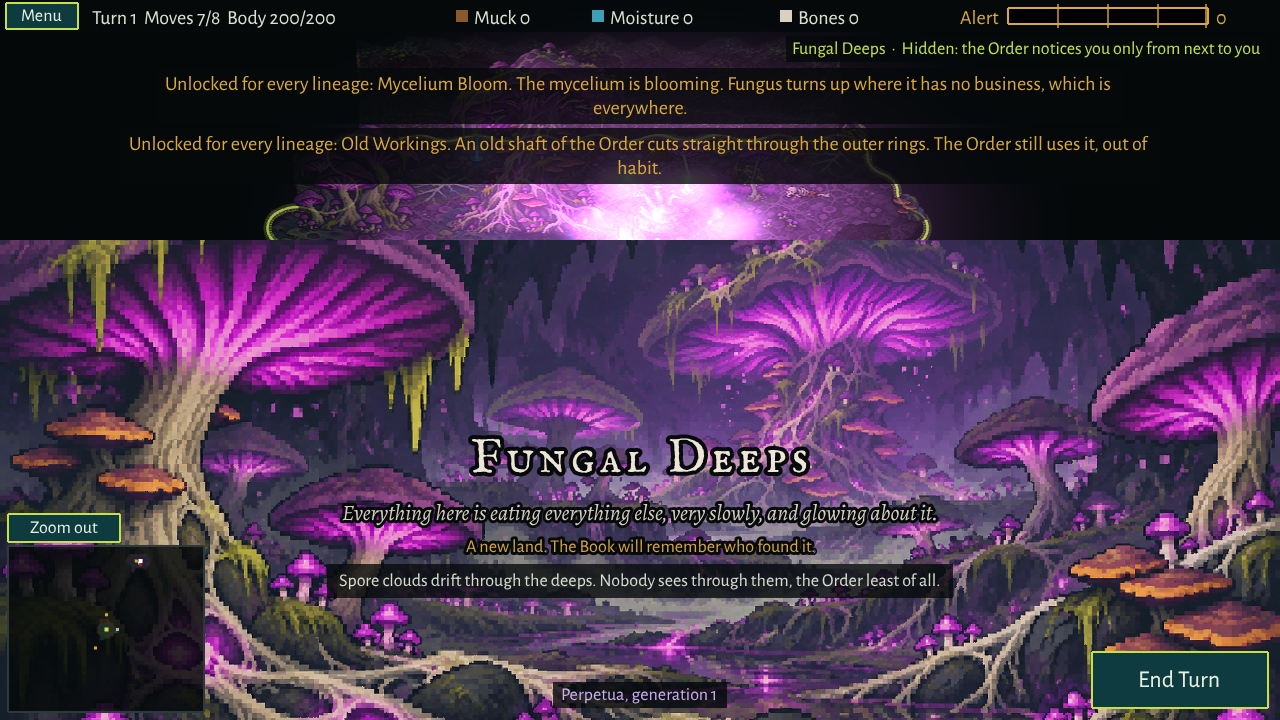
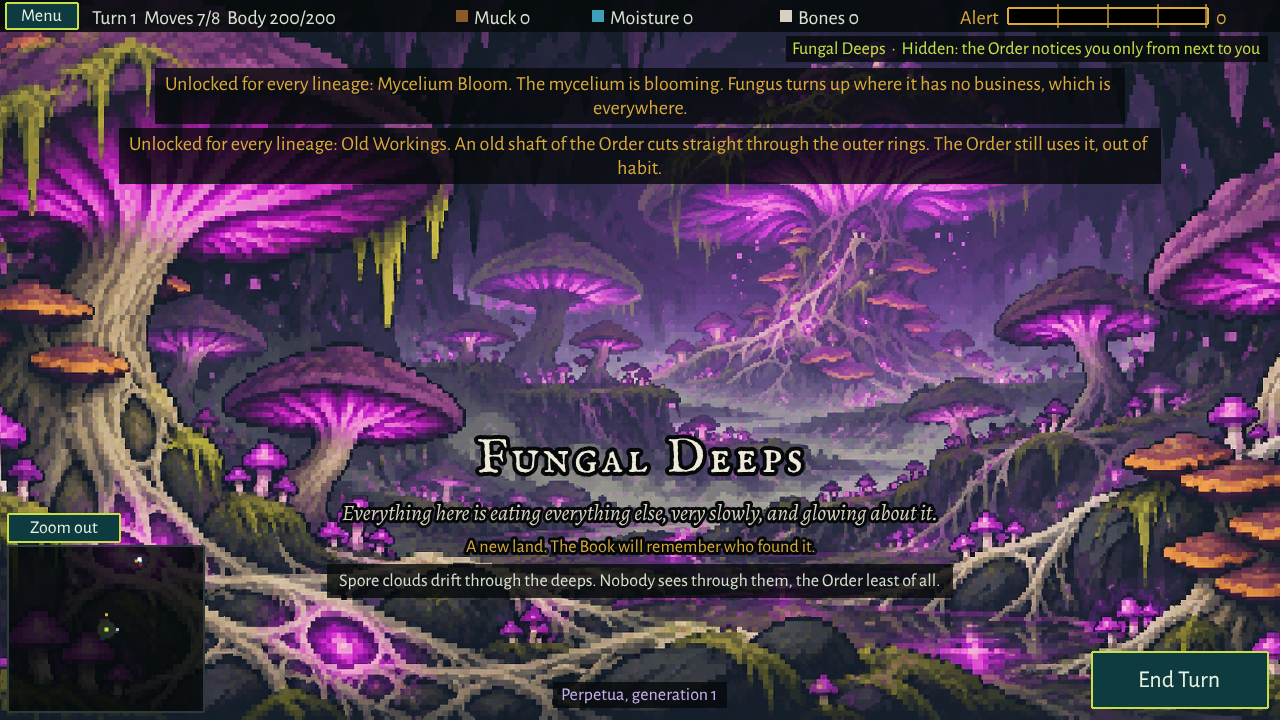
Map: smaller props without copies, a darker violet Fungal Deeps, full-screen vistas, fewer early lands
- Props from a biome's sheet draw at 70% and never twice on one hex; rareProps
  in biomes.json (a helmet, a cart, a coffin) never lead a clump and come at
  most once in one.
- Fungal Deeps: violet glow instead of pink, chamber light at 55%, tighter and
  stronger light on the glowing mushrooms, paler spore puffs (scenery.propGlow
  and scenery.chamberLight, new optional data).
- The discovery vista fills the whole screen (640x360 import box).
- Ring 1 keeps 1-2 foreign chambers instead of 4-6, so the first lands come
  one at a time.

Claude-Session: https://claude.ai/code/session_01YAxGtVC6TZfSpD8XVKcdPa

diff --git a/src/scenes/MapScene.ts b/src/scenes/MapScene.ts
@@ -193,6 +193,8 @@ const PLACE_GLOWS: Readonly<Record<string, { tint: string; scale: number; alpha:
 
 /** Decorations come in clumps around an anchor hex (a ring of mushrooms, a heap of bones), not sprinkled evenly. */
 const CLUMP = { pieces: [3, 7] as const, perChamberHexes: 9, loneChance: 0.12, favouriteShare: 0.7 };
+/** Props from a biome's sheet are drawn this much smaller than the sheet's own size, so they sit inside their hex. */
+const PROP_SCALE = 0.7;
 /**
  * One small decoration: an older one by its kind (map_deco_<kind>), or a frame of the biome's props sheet
  * (map_props_<biome>) once it has one.
@@ -233,7 +235,7 @@ const MIST = { size: 2.1, tint: '#e4ece6', alpha: [0.3, 0.68] as const, drift: 3
  * per hex, of the biome's glow greyed (`grey` of the way to `greyTint`), each a little bigger or smaller (`sizes`, times
  * a hex's width) and off the hex's middle by up to `spread` px, drifting sideways.
  */
-const SPORES = { puffs: 2, sizes: [1.3, 2] as const, spread: 6, grey: 0.6, greyTint: '#b8b0bc', alpha: 0.42, drift: 5, driftMs: 3600 } as const;
+const SPORES = { puffs: 2, sizes: [1.3, 2] as const, spread: 6, grey: 0.6, greyTint: '#a89cb0', alpha: 0.34, drift: 5, driftMs: 3600 } as const;
 /** Hidden in the roots or under a spore cloud (GAME_DESIGN.md §9.2), the hydra shows this faded. */
 const HIDDEN_ALPHA = 0.6;
 
@@ -260,6 +262,8 @@ interface ChamberGlow {
   hexes: string[];
   color: number;
   radius: number;
+  /** How strong its light is: BIOME_LIGHT.strength, scaled by the biome's scenery.chamberLight. */
+  strength: number;
   teaser: Phaser.GameObjects.Image | null;
 }
 
@@ -534,7 +538,19 @@ export class MapScene extends Phaser.Scene {
       const biome = map.tiles.get(hexKey(hexes[0]!))?.biome ?? '';
       const glow = biomes.biomes[biome]?.colors.glow;
       if (!glow) return [];
-      return [{ x, y, center, biome, hexes: hexes.map(hexKey), color: color(glow), radius: Math.max(BIOME_LIGHT.minRadius, hexes.length * BIOME_LIGHT.radiusPerHex), teaser: null }];
+      return [
+        {
+          x,
+          y,
+          center,
+          biome,
+          hexes: hexes.map(hexKey),
+          color: color(glow),
+          radius: Math.max(BIOME_LIGHT.minRadius, hexes.length * BIOME_LIGHT.radiusPerHex),
+          strength: BIOME_LIGHT.strength * this.sceneryOf(biome).chamberLight,
+          teaser: null,
+        },
+      ];
     });
   }
 
@@ -605,7 +621,11 @@ export class MapScene extends Phaser.Scene {
       const biome = map.tiles.get(hexKey(anchor))?.biome ?? '';
       const kinds = this.piecesOf(biome, biomes.biomes[biome]?.decorations ?? []);
       if (kinds.length === 0) continue;
-      const favourite = rng.pick(kinds);
+      // A helmet or a cart (rareProps) never leads a clump, and comes at most once in one.
+      const rare = new Set<Piece>(this.sceneryOf(biome).rareProps);
+      const common = kinds.filter((kind) => !rare.has(kind));
+      const favourite = rng.pick(common.length > 0 ? common : kinds);
+      let rareUsed = false;
       const spots = [anchor, ...hexNeighbors(anchor)].filter((h) => {
         const t = map.tiles.get(hexKey(h));
         return t !== undefined && t.terrain !== 'rock' && t.object === null;
@@ -617,7 +637,18 @@ export class MapScene extends Phaser.Scene {
         const spot = i < 2 ? spots[0]! : rng.pick(spots);
         const list = pieces.get(hexKey(spot)) ?? [];
         if (list.length >= 3) continue;
-        list.push(rng.chance(CLUMP.favouriteShare) ? favourite : rng.pick(kinds));
+        let pick = rng.chance(CLUMP.favouriteShare) ? favourite : rng.pick(kinds);
+        if (rare.has(pick)) {
+          if (rareUsed && common.length > 0) pick = rng.pick(common);
+          else rareUsed = true;
+        }
+        // The same picture twice on one hex reads as a copy, so a repeat picks something else.
+        if (typeof pick === 'number' && list.includes(pick)) {
+          const fresh = common.filter((kind) => typeof kind === 'number' && !list.includes(kind));
+          if (fresh.length === 0) continue;
+          pick = rng.pick(fresh);
+        }
+        list.push(pick);
         pieces.set(hexKey(spot), list);
       }
     }
@@ -670,11 +701,12 @@ export class MapScene extends Phaser.Scene {
         .setOrigin(0.5, 1)
         .setFlipX(rng.chance(0.5))
         .setDepth(this.standingDepth(py));
+      if (sheet) prop.setScale(PROP_SCALE);
       view.props.push(prop);
       const flat = !sheet && FLAT_DECORATIONS.includes(piece as DecorationKind);
-      if (!flat) view.shadows.push(this.contactShadow(px, py, prop.width));
+      if (!flat) view.shadows.push(this.contactShadow(px, py, prop.displayWidth));
       const glowing = sheet ? scenery.glowingProps.includes(piece as number) : GLOWING_DECORATIONS.includes(piece as DecorationKind);
-      if (glowing) view.propGlows.push(this.glow(px, py - Math.min(9, prop.height / 2), biome.colors.glow, 0.55, 0.5, py));
+      if (glowing) view.propGlows.push(this.glow(px, py - Math.min(9, prop.displayHeight / 2), biome.colors.glow, scenery.propGlow.scale, scenery.propGlow.alpha, py));
     }
   }
 
@@ -1120,7 +1152,7 @@ export class MapScene extends Phaser.Scene {
     if (this.chamberGlows.length > 0) {
       const known = this.known;
       for (const chamber of this.chamberGlows) {
-        if (chamber.hexes.some((k) => known.has(k))) lights.push({ x: chamber.x, y: chamber.y, radius: chamber.radius, color: chamber.color, strength: BIOME_LIGHT.strength });
+        if (chamber.hexes.some((k) => known.has(k))) lights.push({ x: chamber.x, y: chamber.y, radius: chamber.radius, color: chamber.color, strength: chamber.strength });
       }
     }
     this.light.draw(lights, this.ambient());
@@ -1319,7 +1351,8 @@ export class MapScene extends Phaser.Scene {
     };
     const vista = `discovery_${biomeId}`;
     if (firstEver && hasPicture(this, getContext(this).data, vista)) {
-      pin(this.add.image(0, 0, vista).setOrigin(0.5, 0.5), SCREEN.width / 2, middle);
+      // The land's wide view fills the whole screen, like a title card; the name stands in its lower third.
+      pin(this.add.image(0, 0, vista).setOrigin(0.5, 0.5), SCREEN.width / 2, SCREEN.height / 2);
     } else if (firstEver) {
       // Without its vista: a dark band across the screen, the land's glow behind the name.
       pin(this.add.rectangle(0, 0, SCREEN.width, 74, color('#05090a'), 0.8).setOrigin(0.5, 0.5), SCREEN.width / 2, middle);

diff --git a/src/scenes/mapScenery.ts b/src/scenes/mapScenery.ts
@@ -17,6 +17,12 @@ export interface BiomeScenery {
   propsInWater: number[];
   propsOnGround: number[];
   glowingProps: number[];
+  /** Props that never lead a clump and come at most once per clump (a helmet, a cart). */
+  rareProps: number[];
+  /** The light of a glowing prop: its size and strength, where the biome overrides the usual ones. */
+  propGlow: { scale: number; alpha: number };
+  /** The chamber light of this biome, against BIOME_LIGHT.strength. */
+  chamberLight: number;
   /** Frames of map_patches_<biome>; 0 while it has no picture. */
   patches: number;
   /** Image keys of the clumps that have pictures: any of them on dry ground, these in water. */
@@ -50,6 +56,9 @@ export function biomeScenery(scene: Phaser.Scene, data: GameData, biome: string)
     propsInWater,
     propsOnGround: Array.from({ length: props }, (_, i) => i).filter((f) => !propsInWater.includes(f)),
     glowingProps: frames(def?.glowingProps),
+    rareProps: frames(def?.rareProps),
+    propGlow: def?.propGlow ?? { scale: 0.55, alpha: 0.5 },
+    chamberLight: def?.chamberLight ?? 1,
     patches: framesOf(scene, data, `map_patches_${biome}`),
     clumps,
     clumpsInWater: (def?.clumpsInWater ?? []).map((name) => `map_clump_${biome}_${name}`).filter((key) => clumps.includes(key)),

diff --git a/src/data/schemas.ts b/src/data/schemas.ts
@@ -364,6 +364,12 @@ export const biomesSchema = section({
         // Prop numbers as in the prompt: 1 is the sheet's first.
         propsInWater: z.array(z.number().int().min(1).max(12)),
         glowingProps: z.array(z.number().int().min(1).max(12)),
+        // Man-made or odd props (a helmet, a cart): never a clump's favourite, at most one in a clump.
+        rareProps: z.array(z.number().int().min(1).max(12)).optional(),
+        // The light its glowing props give (size and strength override the usual 0.55 / 0.5): tighter and dimmer in a biome that drowned in light.
+        propGlow: section({ scale: z.number().positive(), alpha: z.number().min(0).max(1) }).optional(),
+        // The chamber light of this biome, against BIOME_LIGHT.strength (1 = as other biomes).
+        chamberLight: z.number().min(0).max(2).optional(),
       }).optional(),
       // grounds: a colour for each kind of ground, for its placeholder until its texture exists (else ground or water).
       colors: section({ ground: hexColor, detail: hexColor, water: hexColor, rock: hexColor, glow: hexColor, grounds: z.partialRecord(z.enum(GROUND_TYPES), hexColor).optional() }),
